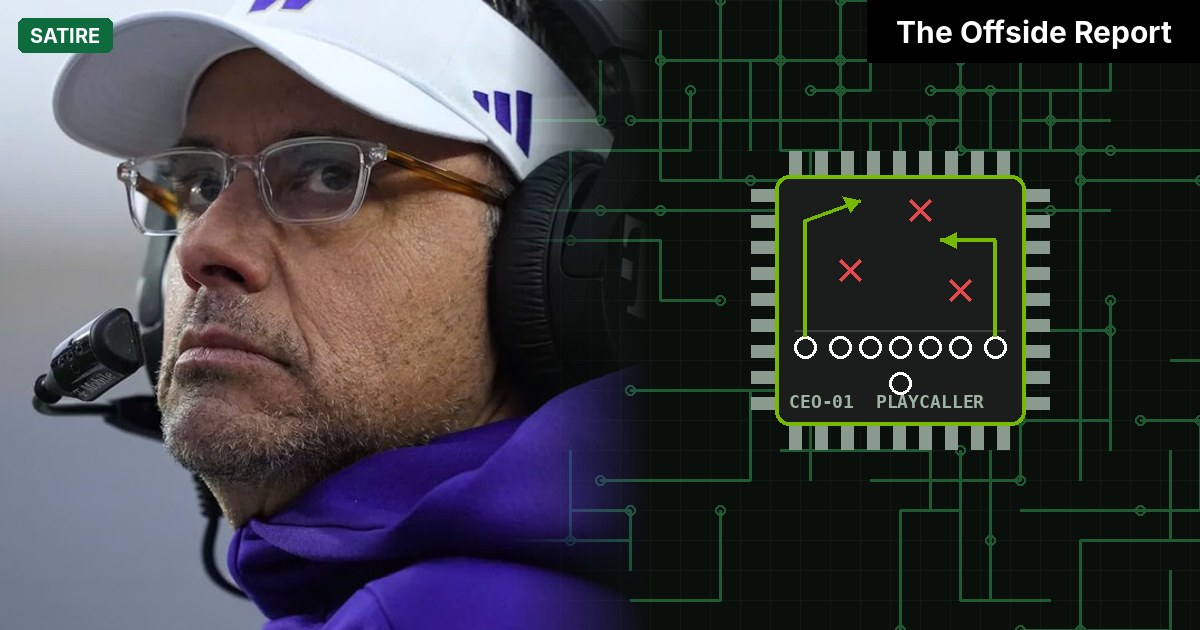
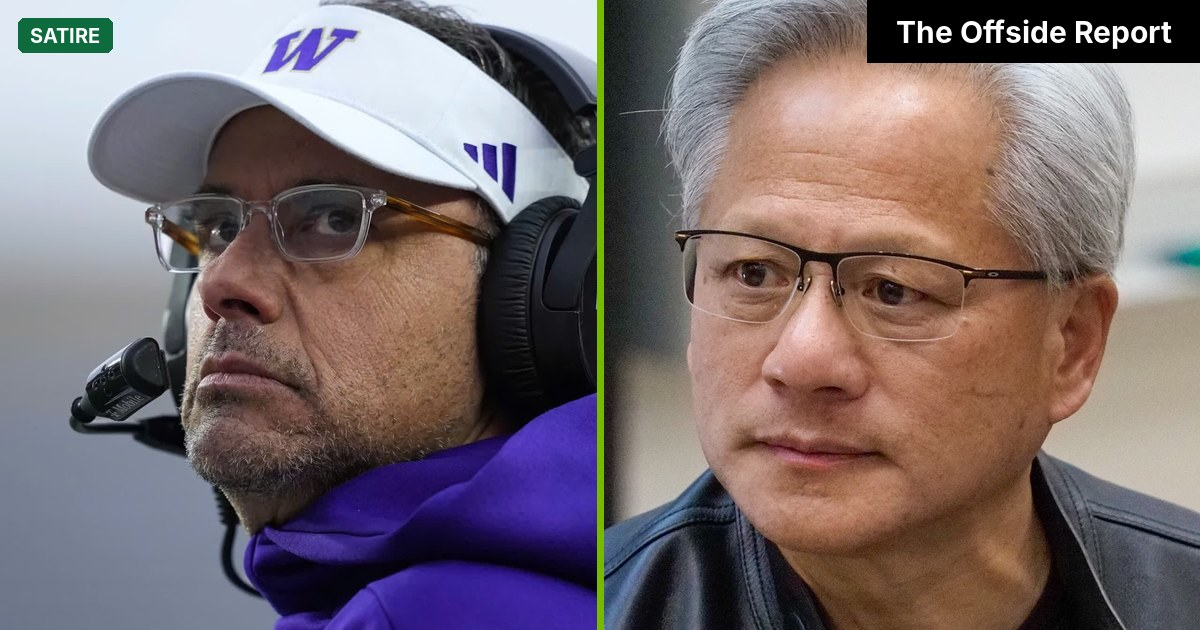
Add files via upload

diff --git a/nvidia/index.html b/nvidia/index.html
@@ -55,8 +55,8 @@ footer{border-top:1px solid var(--rule);margin-top:2.5rem;padding:1.5rem 0 3rem;
 <p class="dek">The board wants “someone who can recruit five-star engineers and call every play himself.”</p>
 <div class="byline"><span>By The Offside Report staff</span><time datetime="2026-11-12">Nov. 12, 2026</time></div>
 <figure>
-<img src="card.jpg" alt="Jedd Fisch in a Washington visor and headset next to a computer chip with a football play drawn on it" width="1200" height="630">
-<figcaption>Photo: USA TODAY Sports. Illustration: The Offside Report</figcaption>
+<img src="card.jpg" alt="Jedd Fisch in a Washington visor and headset, side by side with Nvidia CEO Jensen Huang" width="1200" height="630">
+<figcaption>Photos: USA TODAY Sports (Fisch); Stanford, April 2026 (Huang)</figcaption>
 </figure>
 <div class="body">
 <p>Nvidia has requested permission to speak with Washington football coach Jedd Fisch about its CEO opening, according to sources who stressed they were mostly guessing.</p>
